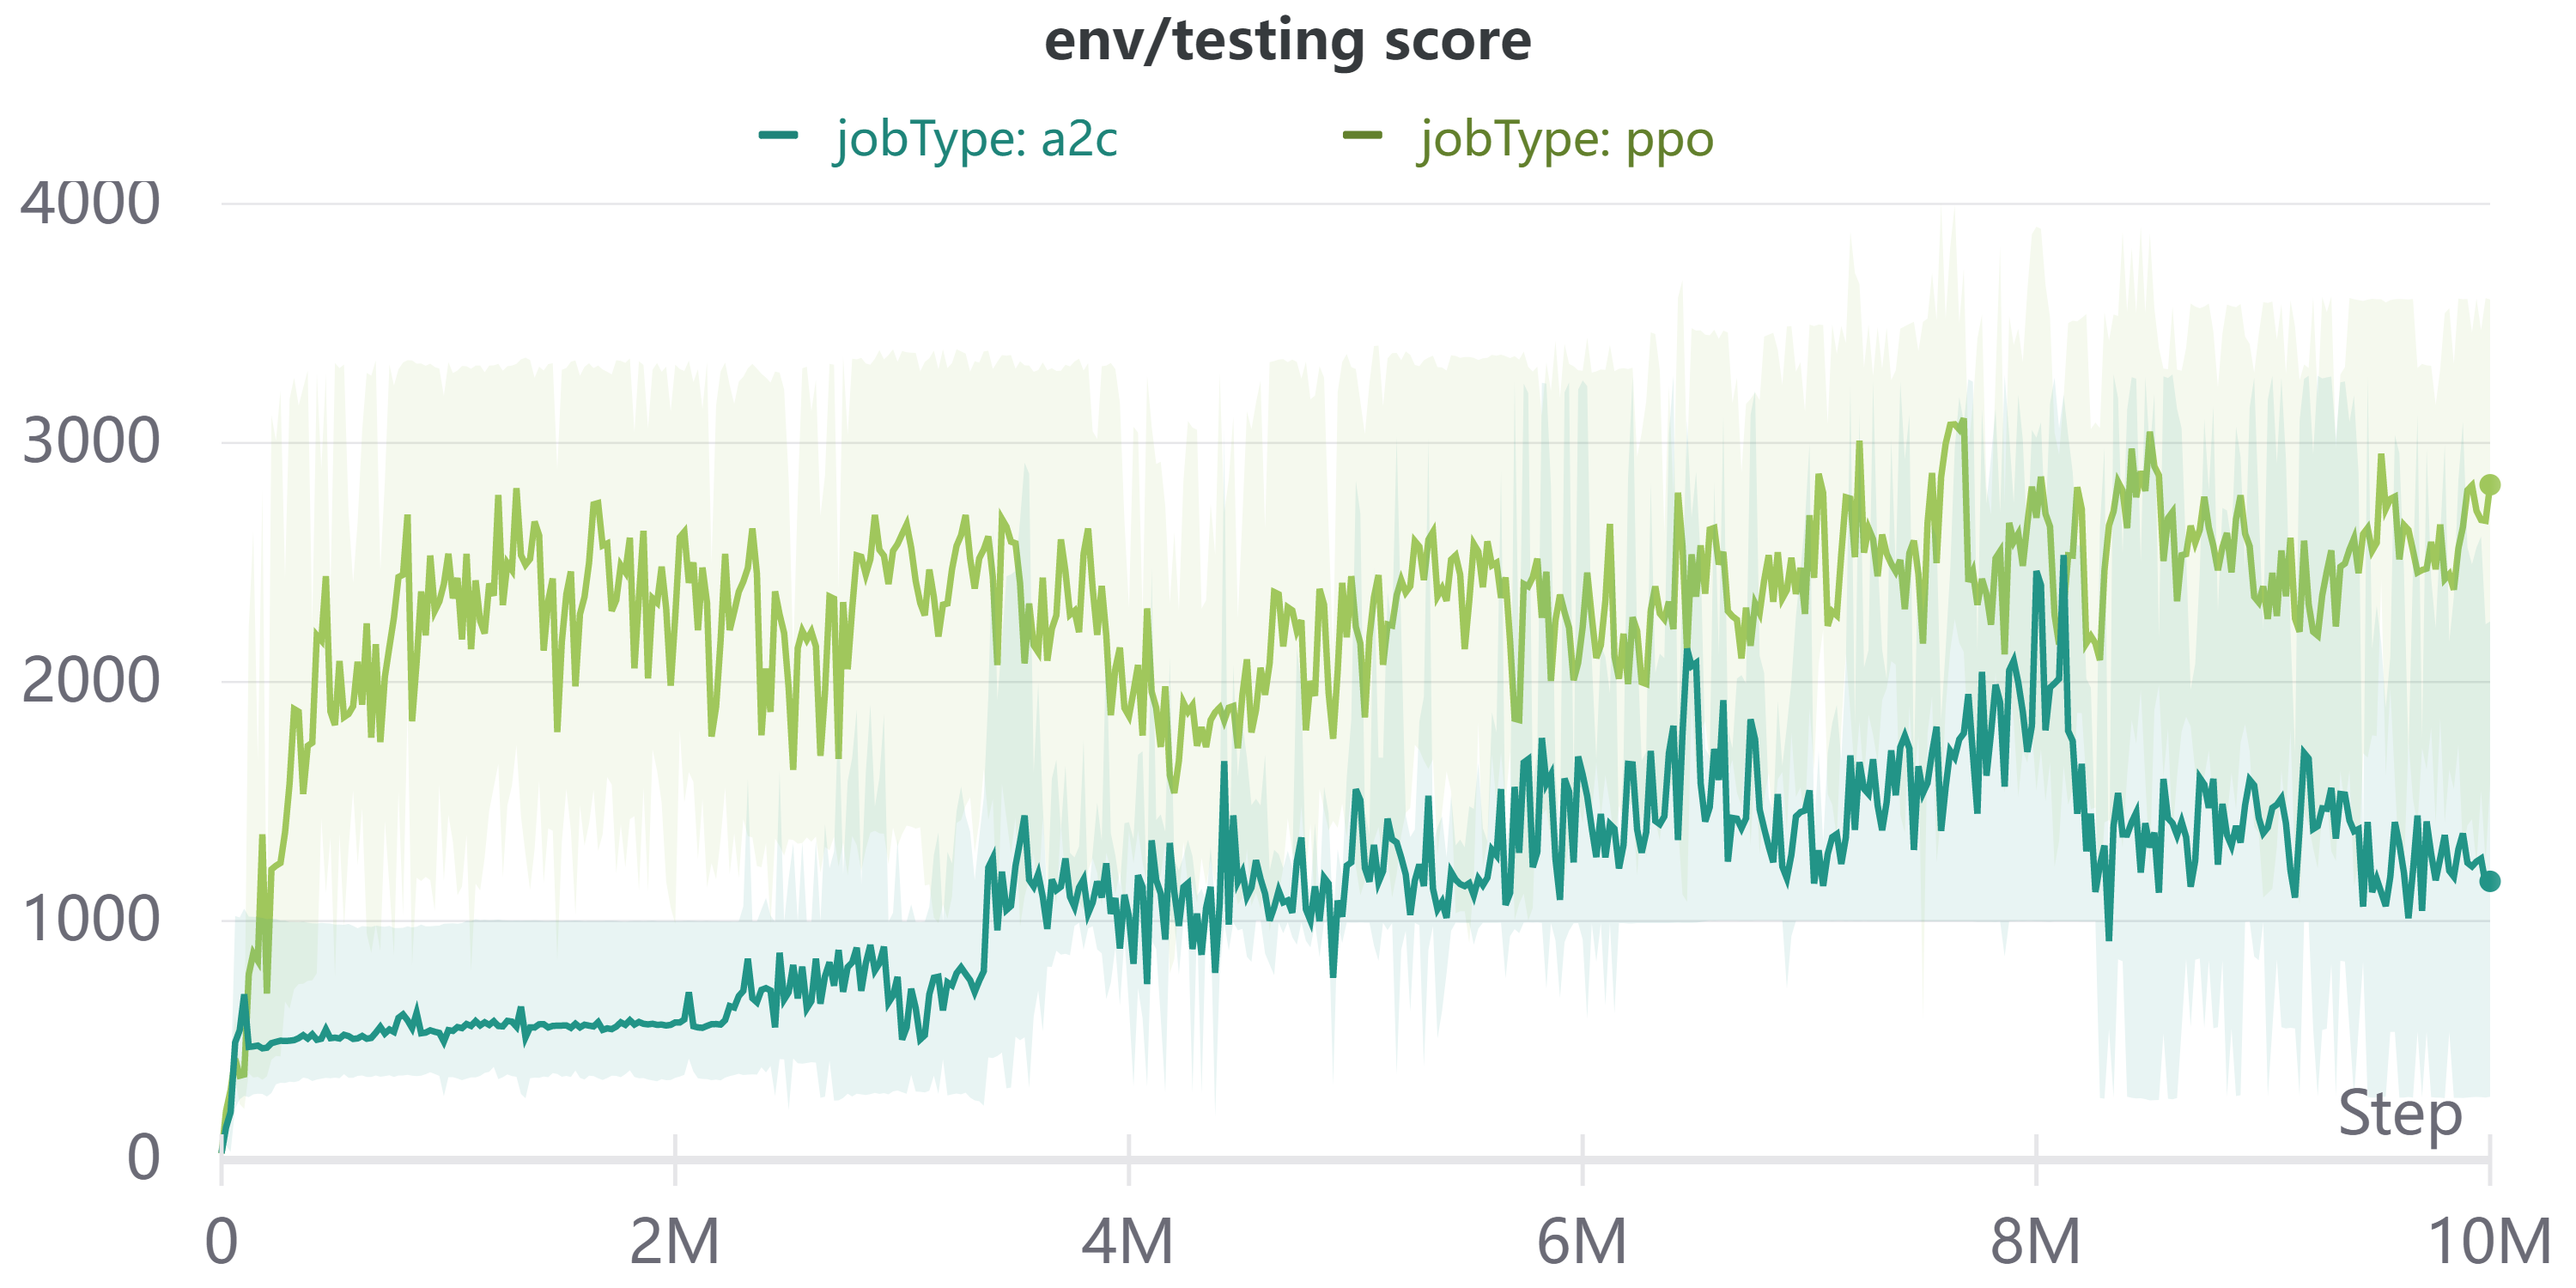
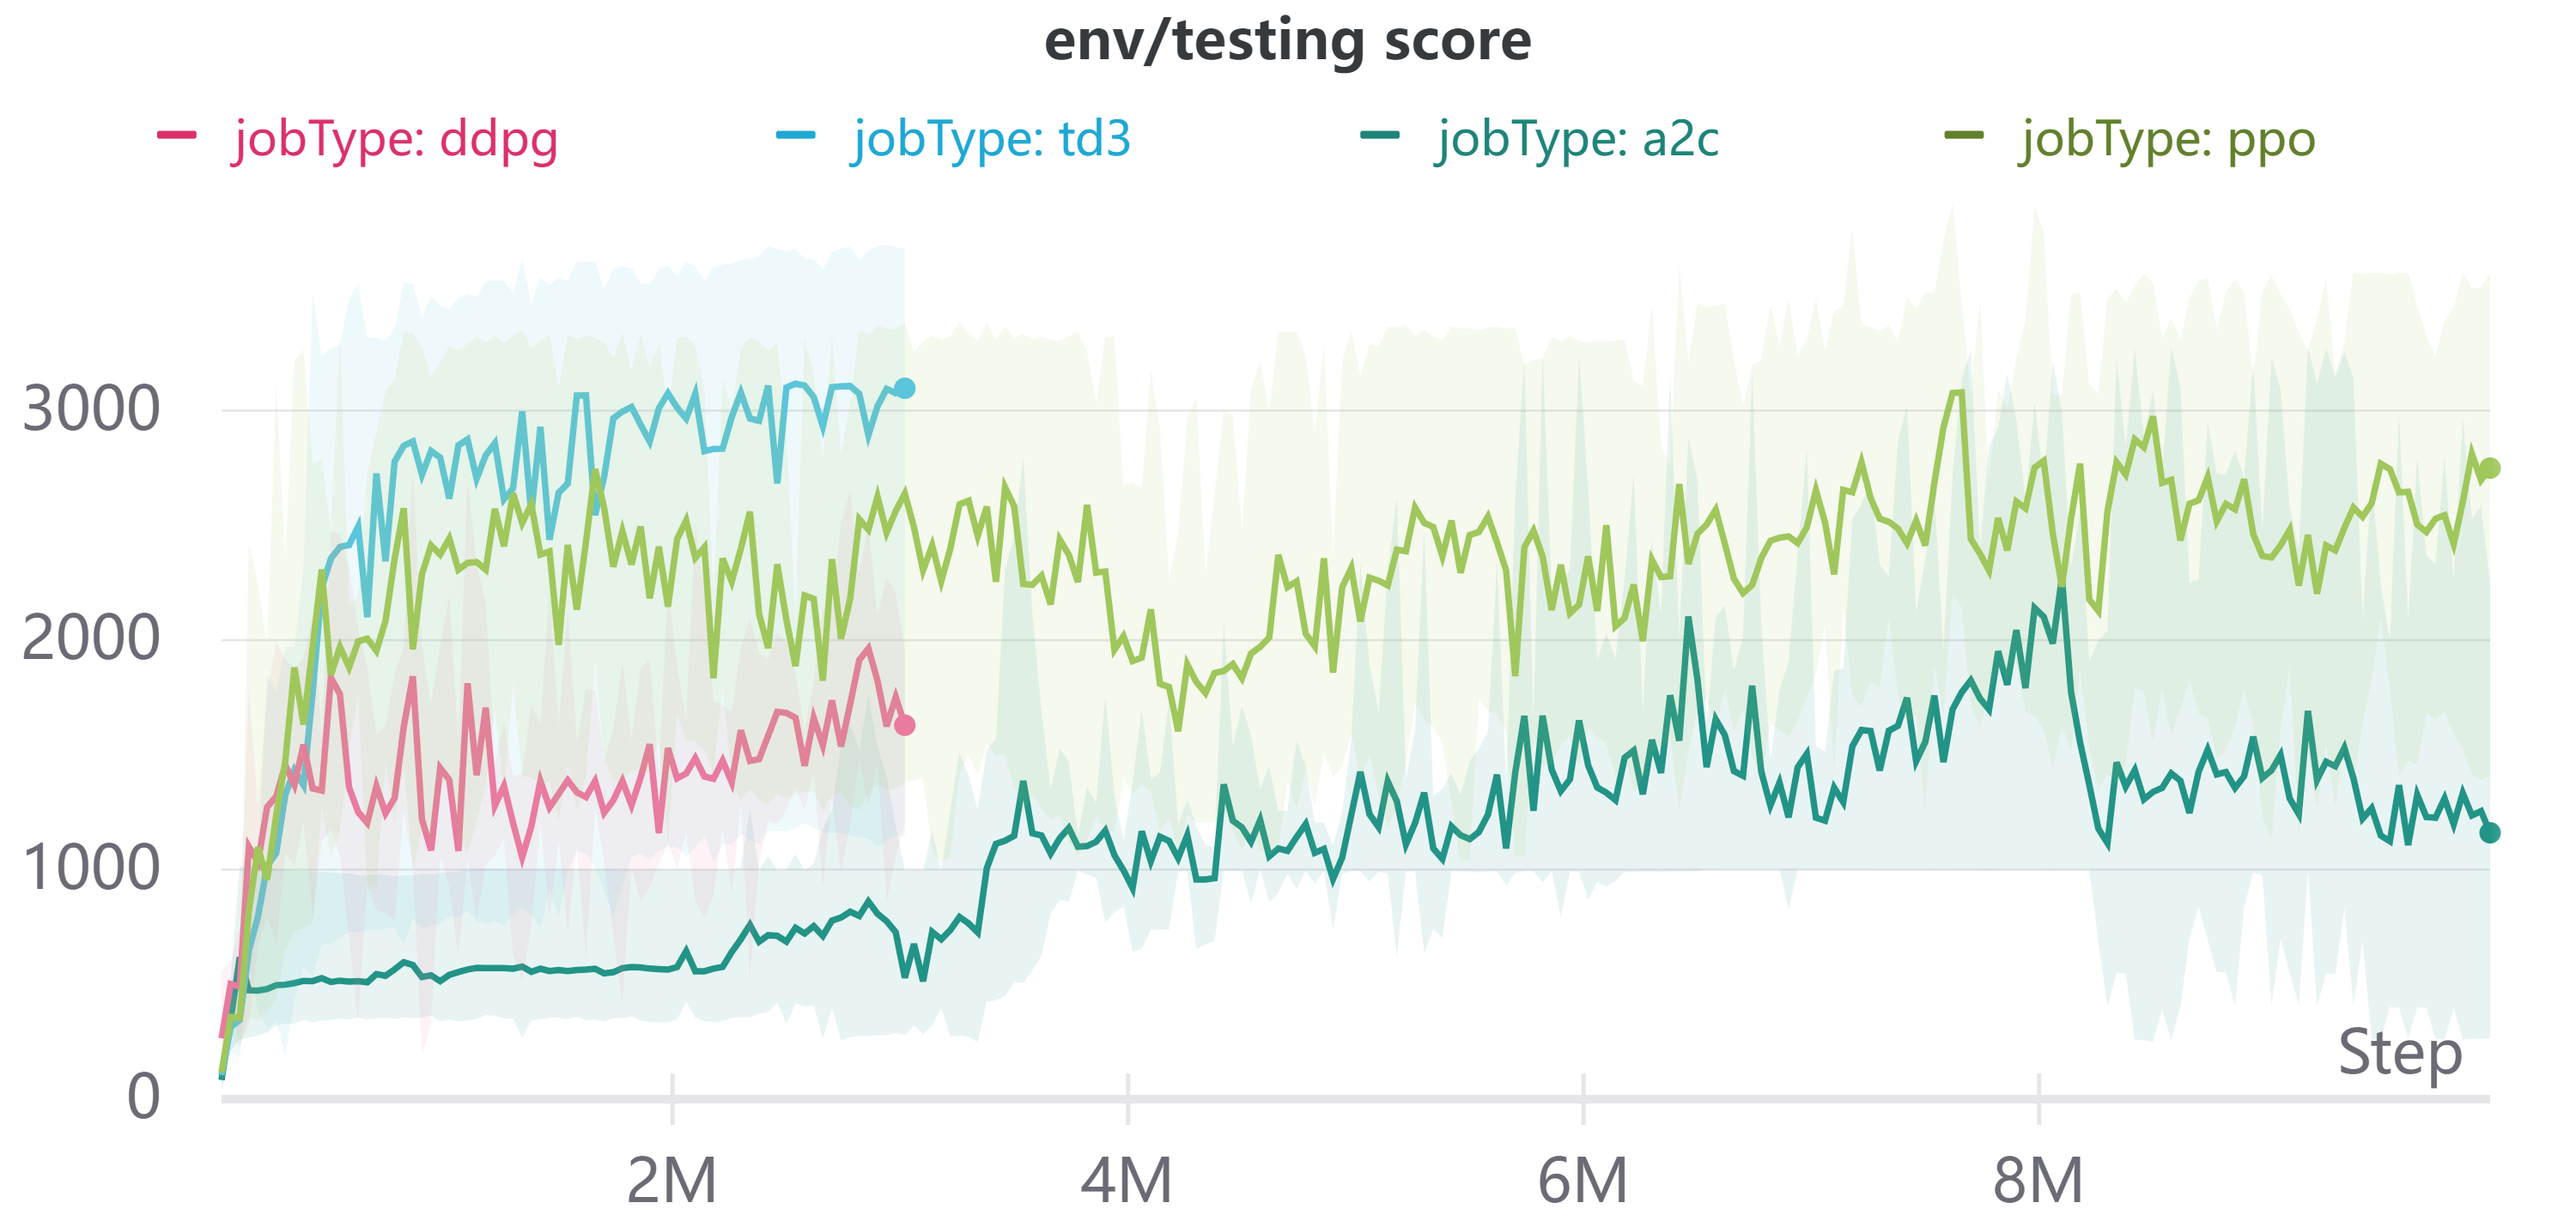
finish ddpg/td3

diff --git a/drl/a2c/config.py b/drl/a2c/config.py
@@ -2,9 +2,9 @@ import argparse
 
 
 def get_args():
-    """This implementation lacks of some useful tricks like observation/value normalization
+    """A2C (Advantage Actor-Critic, also known as vanilla policy gradient)
     
-    A2C (Advantage Actor-Critic, also known as vanilla policy gradient) core hyper-parameters    
+    core hyper-parameters    
     ---------------------------------------------------------------------------
     lr                |   the learning rate of the actor-critic
     gamma             |   discounting factor γ for future reward accumulation
@@ -13,9 +13,9 @@ def get_args():
     entropy_coef      |   coefficient of the entropy term for robust training
     max_grad_norm     |   clip the gradient for stable training
     hidden_dim        |   number of hidden nodes per mlp layer
-    num_T             |   number of interaction steps to train an agent (may affect the learning rate decay
+    num_T             |   number of interaction steps to train an agent (may affect the learning rate decay)
     sample_steps      |   number of environment-interacting (sampling) steps in one training epoch
-    num_minibatch     |   split the data into a few minibatchs for fasther fitting (may undermine stability
+    num_minibatch     |   split the data into a few minibatchs for fasther fitting (may undermine stability)
 
     
     More parameters for record, test and other stuffs
@@ -61,7 +61,7 @@ def get_args():
     parser.add_argument("--hidden_dim", default=128, type=int, \
         help="number of hidden nodes per mlp layer")
     parser.add_argument("--num_T", default=10000000, type=int, \
-        help="number of interaction steps to train an agent (may affect the learning rate decay")
+        help="number of interaction steps to train an agent (may affect the learning rate decay)")
     parser.add_argument("--sample_steps", default=1024, type=int, \
         help="number of environment-interacting (sampling) steps in one training epoch")
     parser.add_argument("--num_minibatch", default=1, type=int, \

diff --git a/drl/ppo/config.py b/drl/ppo/config.py
@@ -2,9 +2,9 @@ import argparse
 
 
 def get_args():
-    """This implementation lacks of some useful tricks like observation/value normalization
-    
-    PPO core hyper-parameters    
+    """PPO (Poximal Policy Optimization)
+
+    core hyper-parameters    
     ---------------------------------------------------------------------------
     lr                |   the learning rate of the actor-critic
     gamma             |   discounting factor γ for future reward accumulation
@@ -14,10 +14,10 @@ def get_args():
     entropy_coef      |   coefficient of the entropy term for robust training
     max_grad_norm     |   clip the gradient for stable training
     hidden_dim        |   number of hidden nodes per mlp layer
-    num_T             |   number of interaction steps to train an agent (may affect the learning rate decay
+    num_T             |   number of interaction steps to train an agent (may affect the learning rate decay)
     sample_steps      |   number of environment-interacting (sampling) steps in one training epoch
     reuse_times       |   reuse the sampled data multiple times for data efficiency
-    num_minibatch     |   split the data into a few minibatchs for fasther fitting (may undermine stability
+    num_minibatch     |   split the data into a few minibatchs for fasther fitting (may undermine stability)
 
     
     More parameters for record, test and other stuffs
@@ -65,7 +65,7 @@ def get_args():
     parser.add_argument("--hidden_dim", default=128, type=int, \
         help="number of hidden nodes per mlp layer")
     parser.add_argument("--num_T", default=10000000, type=int, \
-        help="number of interaction steps to train an agent (may affect the learning rate decay")
+        help="number of interaction steps to train an agent (may affect the learning rate decay)")
     parser.add_argument("--sample_steps", default=1024, type=int, \
         help="number of environment-interacting (sampling) steps in one training epoch")
     parser.add_argument("--reuse_times", default=10, type=int, \

diff --git a/buffers/vector_buffer.py b/buffers/vector_buffer.py
@@ -7,7 +7,7 @@ class VectorBuffer(BaseBuffer):
     """Vectorized Buffer directly stores all transitions from all environments
     
     All data are returned in np.float32/np.long format and [Batch_Size, Num_Env, Dim] shape
-    so it can be used for pytorch process without any dtype transformation
+    so it can be used for pytorch processing without any dtype transformation
     
     The data is stored on the CPU
     """
@@ -52,13 +52,14 @@ class VectorBuffer(BaseBuffer):
         self.next_obs_stack = None
         
     def add(self, obs, action, reward, done, next_obs=None):
+        if self.L < self.S:
+            self.L += 1
         self.stack[self.cur] = (obs, action, reward, done, self.pad_data)
         if next_obs is not None:
             if self.next_obs_stack is None:
                 self.next_obs_stack = np.zeros((self.S, self.n, *self.obs_shape), dtype=np.float32)
             self.next_obs_stack[self.cur] = next_obs
         if self.L < self.S:
-            self.L += 1
             self.cur += 1
         else:
             if self.kicking == "dequeue":

diff --git a/buffers/image_buffer.py b/buffers/image_buffer.py
@@ -12,7 +12,7 @@ class ImageBuffer(BaseBuffer):
     An observation is a tensor of L * W * H in [0, 1). We only stores the first frame in uint8 format.
     Typically for O \in [L, W, H], we store int(O[-1, :W, :H] * 255)
     
-    All other data are in np.float32/np.long form so it can be used for torch without a dtype transformation
+    All other data are in np.float32/np.long form so it can be used for pytorch processing without a dtype transformation
     The data will be stored on the CPU
     """
 
@@ -113,9 +113,11 @@ class ImageBuffer(BaseBuffer):
         self.stack = np.array([self.empty_data] * self.S, dtype=self.trans_dtype)
         
     def add(self, obs, action, reward, done, next_obs=None):
-        self.stack[self.cur] = (obs, action, reward, done, self.pad_data)
         if self.L < self.S:
             self.L += 1
+        self.stack[self.cur] = (obs, action, reward, done, self.pad_data)
+        if self.L < self.S:
+            self.cur += 1
         else:
             if self.kicking == "dequeue":
                 self.cur = (self.cur + 1) % self.S

diff --git a/buffers/normal_buffer.py b/buffers/normal_buffer.py
@@ -7,7 +7,7 @@ class NormalBuffer(BaseBuffer):
     """Normal Buffer directly stores all transitions
     
     All data are returned in np.float32/np.long format and [Batch_Size, Dim] shape
-    so it can be used for pytorch process without any dtype transformation
+    so it can be used for pytorch processing without any dtype transformation
     
     The data is stored on the CPU
     """
@@ -51,13 +51,14 @@ class NormalBuffer(BaseBuffer):
         self.next_obs_stack = None
         
     def add(self, obs, action, reward, done, next_obs=None):
+        if self.L < self.S:
+            self.L += 1
         self.stack[self.cur] = (obs, action, reward, done, self.pad_data)
         if next_obs is not None:
             if self.next_obs_stack is None:
                 self.next_obs_stack = np.zeros((self.S, *self.obs_shape), dtype=np.float32)
             self.next_obs_stack[self.cur] = next_obs
         if self.L < self.S:
-            self.L += 1
             self.cur += 1
         else:
             if self.kicking == "dequeue":

diff --git a/buffers/base.py b/buffers/base.py
@@ -5,7 +5,7 @@ class BaseBuffer(object):
     """Clarify basic functions that a buffer should have
 
     buffer_type       |   "dequeue" is First-In-First-Out;
-                          "reservoir" randomly eliminates an old peice of data;
+                      |   "reservoir" randomly eliminates an old peice of data;
     buffer_capacity   |   the maximum number of trainsitions a buffer can hold
     """
     

diff --git a/run.py b/run.py
@@ -65,6 +65,8 @@ if args.algo == "dqn":
     raise NotImplementedError
 elif args.algo == "a2c":
     drl.A2C(env, test_env, device, buffer)
+elif args.algo == "ddpg":
+    drl.DDPG(env, test_env, device, buffer)
 elif args.algo == "ppo":
     drl.PPO(env, test_env, device, buffer)
 elif args.algo == "td3":

diff --git a/drl/__init__.py b/drl/__init__.py
@@ -1,3 +1,4 @@
 from drl.a2c.main import run as A2C
+from drl.ddpg.main import run as DDPG
 from drl.ppo.main import run as PPO
 from drl.td3.main import run as TD3

diff --git a/drl/td3/README.md b/drl/td3/README.md
@@ -2,9 +2,9 @@
 
 Use
 ```
-bash scripts/a2c/CartPole.sh 0 0
-bash scripts/a2c/Hopper.sh 0 0
-bash scripts/a2c/pong.sh 0 0
+bash scripts/td3/Pendulum.sh 0 0
+bash scripts/td3/Hopper.sh 0 0
+bash scripts/td3/Huanmoid.sh 0 0
 ```
 for a quick start
 
@@ -13,19 +13,18 @@ To evaluate existing models, just add "--test_model --load_file 'local path to y
 
 
 
-### Commands and Tips for PPO
+### Commands and Tips for TD3
 
-Here is an example command to train a a2c agent, containing those hyperparameters of the first prior to consider:
+Here is an example command to train a td3 agent, containing those hyperparameters of the first prior to consider:
 
 ```
 CUDA_VISIBLE_DEVICES=0 python run.py \
     --exp_name $exp_name --seed $seed \
     --scenario mujoco --env Hopper-v3 \
-    --algo a2c \
-    --num_T 10000000 --test_interval 20000 \
-    --sample_steps 256 --num_env 16 --num_minibatch 1 \ # Use the full batch is safe; always use mutiple envs
-    --buffer_capacity 256 \ # make it at least the same as sample_steps
-    --lr 3e-4 --lam 0.95
+    --algo td3 \
+    --num_T 3000000 --test_interval 20000 \
+    --actor_lr 3e-4 --critic_lr 3e-4 --batch_size 128 \ # Learning rates are of the most important
+    --online_noise_scale 0.1 --target_noise_scale 0.2 --target_noise_clip 0.5 # Noise for exploration and target critic value smoothing; default setting works well; you may use --OU_noise for a better exploration in certain environments
 ```
 
 
@@ -33,5 +32,6 @@ CUDA_VISIBLE_DEVICES=0 python run.py \
 
 ### Some Implementation Lessons
 
-- See the tips for ppo (in drl/ppo/README.md)
-- Use small batch_size for sample efficiency and mutiple paralleled environments (though this implies short chunck length)
+- We do not use gradient clipping here but experiments show that extremely larger Q values still occur occasionally during training, so it might be helpful for stable training
+- Currently I do not know any other strategies to solve MounntainCarContinuous-v0 by TD3 without strong Ornstein Uhlenbeck noise
+- TD3 is sensitive to the hyperparameters so careful tuning for each environment is essential for a good performance

diff --git a/drl/ddpg/README.md b/drl/ddpg/README.md
@@ -1,0 +1,36 @@
+### Quick Start
+
+Use
+```
+bash scripts/ddpg/Pendulum.sh 0 0
+bash scripts/ddpg/Hopper.sh 0 0
+bash scripts/ddpg/Huanmoid.sh 0 0
+```
+for a quick start
+
+To evaluate existing models, just add "--test_model --load_file 'local path to your model'" at the end of the training script
+
+
+
+
+### Commands and Tips for DDPG
+
+Here is an example command to train a ddpg agent, containing those hyperparameters of the first prior to consider:
+
+```
+CUDA_VISIBLE_DEVICES=0 python run.py \
+    --exp_name $exp_name --seed $seed \
+    --scenario mujoco --env Hopper-v3 \
+    --algo ddpg \
+    --num_T 3000000 --test_interval 20000 \
+    --actor_lr 3e-4 --critic_lr 3e-4 --batch_size 128 \ # Learning rates are of the most important
+    --online_noise_scale 0.1 # Noise for exploration and target critic value smoothing; default setting works well; you may use --OU_noise for a better exploration in certain environments
+```
+
+
+
+
+### Warning for Using DDPG
+
+- DDPG is a little bit out-dated and is not the state of the art for single agent environments (though MADDPG is still used for MARL), and it has a serious problem on overestimating the Q-value which often leads to a terrible result
+- It is better to use TD3 as an alternative, as TD3 is an improved version of DDPG which alleviates the problem of Q-value overestimation

diff --git a/README.md b/README.md
@@ -4,10 +4,10 @@
 | :--------: | :---------------: |
 | dqn | :x: |
 | a2c | :heavy_check_mark: |
-| ddpg | :x: |
+| ddpg | :heavy_check_mark: |
 | ppo | :heavy_check_mark: |
 | rainbow | :x: |
-| td3 | :x: |
+| td3 | :heavy_check_mark: |
 | sac | :x: |
 
 The hyperparameters are not fine tuned, but we garuantee an acceptable performance with a safe setting of hyperparameters.
